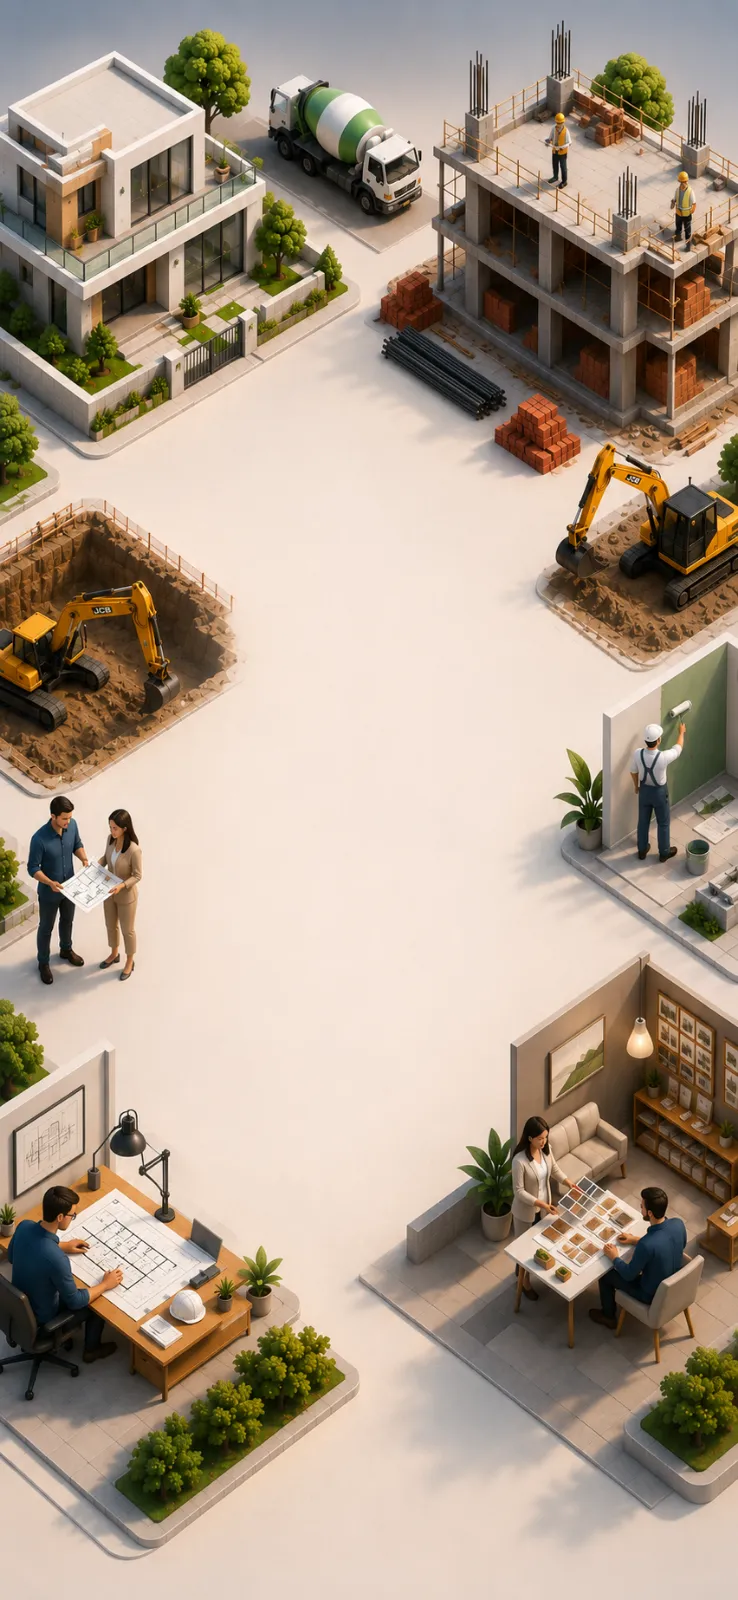
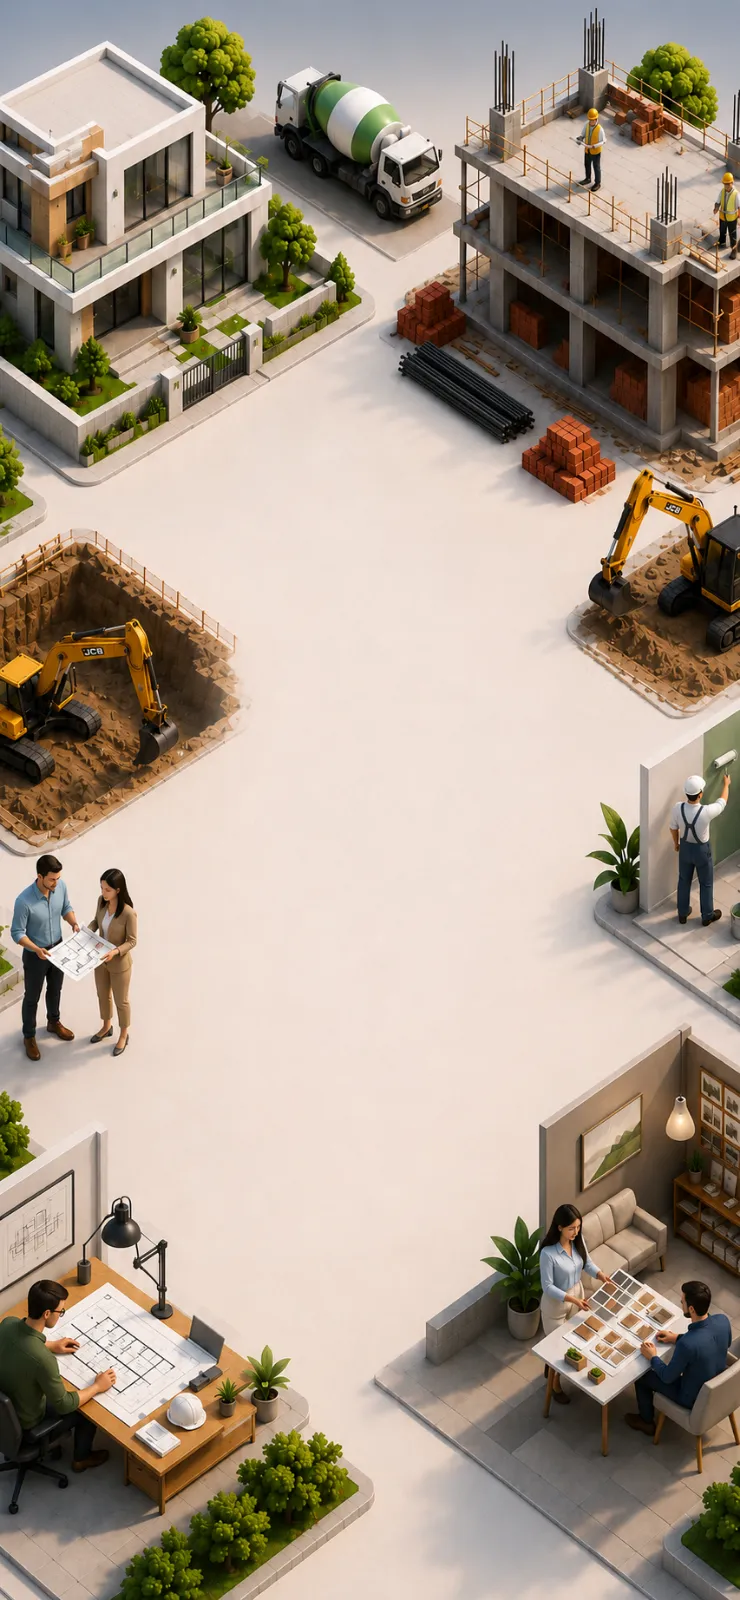
Payemnt testing

diff --git a/src/screens/ProfessionalsScreens/SubscriptionScreen.tsx b/src/screens/ProfessionalsScreens/SubscriptionScreen.tsx
@@ -19,6 +19,7 @@ import Sub1 from '../../assets/svgs/Sub1.svg';
 import Sub2 from '../../assets/svgs/Sub2.svg';
 import Sub3 from '../../assets/svgs/Sub3.svg';
 import Sub4 from '../../assets/svgs/Sub4.svg';
+import TrustedIcon from '../../assets/svgs/TrustedSvg.svg';
 
 import {
   useNavigation,
@@ -211,10 +212,7 @@ const SubscriptionScreen = () => {
         .catch(error => {
           console.log('PAYMENT FAILED', error);
 
-          Alert.alert(
-            'Payment Cancelled',
-            error.description || 'Payment was not completed.',
-          );
+          Alert.alert('Payment Cancelled', 'Payment was not completed.');
         });
     } catch (error: any) {
       console.log('STATUS:', error?.response?.status);
@@ -226,7 +224,7 @@ const SubscriptionScreen = () => {
   };
 
   const renderCard = (plan: Plan) => {
-    console.log('Plannnns desi', plan.description);
+    console.log('Plannnns desi', plan);
     return (
       <View key={plan._id} style={styles.card}>
         <View style={styles.rowBetween}>
@@ -396,6 +394,39 @@ const SubscriptionScreen = () => {
             })}
           </ScrollView>
         )}
+        {/* TRUSTED FOOTER */}
+
+        <View style={styles.trustedContainer}>
+          <View style={styles.trustedIconContainer}>
+            {/* <MaterialCommunityIcons
+              name="shield-check"
+              size={38}
+              color="#2F6FE4"
+            /> */}
+            <TrustedIcon />
+          </View>
+
+          <View style={styles.trustedContent}>
+            <Text style={styles.trustedTitle}>
+              Trusted by 10,000+ professionals
+            </Text>
+
+            <Text style={styles.trustedText}>
+              Join thousands of contractors and{'\n'}
+              service providers growing their business with Preworks.
+            </Text>
+          </View>
+        </View>
+
+        {/* SECURE PAYMENT FOOTER */}
+
+        <View style={styles.secureFooter}>
+          {/* <MaterialCommunityIcons name="lock" size={18} color="#A7A7A7" /> */}
+
+          <Text style={styles.secureText}>
+            Secure payments. Cancel anytime.
+          </Text>
+        </View>
       </ScrollView>
     </ScreenWrapper>
   );
@@ -627,5 +658,75 @@ const styles = StyleSheet.create({
     fontFamily: FONT.POPPINS_MEDIUM,
     marginBottom: 8,
     marginLeft: 4,
+  },
+  trustedContainer: {
+    flexDirection: 'row',
+    alignItems: 'center',
+
+    backgroundColor: '#FFF',
+
+    borderWidth: 1,
+    borderColor: '#EEEEEE',
+    borderRadius: 18,
+
+    marginHorizontal: 18,
+    marginTop: 28,
+    paddingHorizontal: 12,
+    paddingVertical: 18,
+  },
+
+  trustedIconContainer: {
+    width: 54,
+    height: 44,
+
+    borderRadius: 14,
+
+    justifyContent: 'center',
+    alignItems: 'center',
+
+    marginRight: 16,
+  },
+
+  trustedContent: {
+    flex: 1,
+  },
+
+  trustedTitle: {
+    fontSize: 14,
+    color: '#111827',
+    fontFamily: FONT.POPPINS_SEMIBOLD,
+    marginBottom: 5,
+  },
+
+  trustedText: {
+    fontSize: 12,
+    lineHeight: 19,
+    color: '#777',
+    fontFamily: FONT.POPPINS_REGULAR,
+  },
+
+  secureFooter: {
+    flexDirection: 'row',
+    alignItems: 'center',
+    justifyContent: 'center',
+
+    marginTop: 22,
+    marginBottom: 10,
+
+    paddingHorizontal: 10,
+  },
+
+  secureText: {
+    fontSize: 11,
+    color: '#A0A0A0',
+    fontFamily: FONT.POPPINS_REGULAR,
+    marginLeft: 6,
+  },
+
+  secureDivider: {
+    width: 1,
+    height: 14,
+    backgroundColor: '#CFCFCF',
+    marginHorizontal: 12,
   },
 });

diff --git a/src/screens/CustomerScreens/HomeScreenPages/ProffessionalListScreen.tsx b/src/screens/CustomerScreens/HomeScreenPages/ProffessionalListScreen.tsx
@@ -132,7 +132,6 @@ const ProfessionalListScreen = () => {
           )}
         />
       )} */}
-
       {/* Professionals Grid */}
       {loading ? (
         <ActivityIndicator
@@ -140,6 +139,10 @@ const ProfessionalListScreen = () => {
           color={Colors.primary}
           style={{ marginTop: HEIGHT(5), alignSelf: 'center' }}
         />
+      ) : finalList.length === 0 ? (
+        <View style={styles.noResultContainer}>
+          <Text style={styles.noResultText}>No results found</Text>
+        </View>
       ) : (
         <FlatList
           data={finalList}
@@ -184,10 +187,7 @@ const ProfessionalListScreen = () => {
                     {item.firstName} {item.lastName}
                   </Text>
 
-                  <Text style={styles.exp}>
-                    {' '}
-                    {item.userType?.toUpperCase()}
-                  </Text>
+                  <Text style={styles.exp}>{item.userType?.toUpperCase()}</Text>
 
                   <View style={{ flexDirection: 'row', gap: 4 }}>
                     <SuitCaseIcon width={16} height={16} />
@@ -279,5 +279,16 @@ const styles = StyleSheet.create({
   location: {
     fontSize: 12,
     fontFamily: FONT.POPPINS_REGULAR,
+  },
+  noResultContainer: {
+    flex: 1,
+    alignItems: 'center',
+    justifyContent: 'center',
+    paddingBottom: HEIGHT(10),
+  },
+  noResultText: {
+    fontSize: 16,
+    fontFamily: FONT.POPPINS_MEDIUM,
+    color: '#777',
   },
 });

diff --git a/src/components/Buttons/UserTypeButton.tsx b/src/components/Buttons/UserTypeButton.tsx
@@ -16,10 +16,8 @@ const UserTypeButton = ({ title, Icon, onPress }: Props) => {
       style={styles.container}
       onPress={onPress}
     >
-      <View style={styles.iconContainer}>
-        <Icon width={50} height={50} />
-      </View>
-
+      <View style={styles.iconContainer}></View>
+      <Icon width={45} height={45} />
       <Text style={styles.title}>{title}</Text>
     </TouchableOpacity>
   );
@@ -37,13 +35,13 @@ const styles = StyleSheet.create({
     flexDirection: 'row',
     alignItems: 'center',
 
-    paddingVertical: 10,
-    paddingHorizontal: 10,
+    paddingVertical: 6,
+    // paddingHorizontal: 8,
 
     marginBottom: 18,
 
-    borderWidth: 1,
-    borderColor: '#F3EEE8',
+    borderWidth: 1.2,
+    borderColor: '#ededed',
 
     shadowColor: '#000',
     shadowOffset: {
@@ -56,16 +54,16 @@ const styles = StyleSheet.create({
   },
 
   iconContainer: {
-    width: 48,
-    height: 44,
+    width: 31,
+    height: 30,
     justifyContent: 'center',
     alignItems: 'center',
-    marginRight: 8,
+    //marginRight: 16,
   },
 
   title: {
     fontSize: 16,
-    color: '#222222',
-    fontFamily: FONT.POPPINS_MEDIUM,
+    color: '#4c4c4c',
+    fontFamily: FONT.POPPINS_SEMIBOLD,
   },
 });

diff --git a/src/screens/CommonScreens/WelcomeScreen.tsx b/src/screens/CommonScreens/WelcomeScreen.tsx
@@ -87,17 +87,17 @@ const styles = StyleSheet.create({
   },
 
   title: {
-    fontSize: 30,
-    color: 'black',
-    marginBottom: 10,
-    fontFamily: FONT.POPPINS_BOLD,
+    fontSize: 22,
+    color: '#4c4c4c',
+    marginTop: -20,
+    fontFamily: FONT.POPPINS_SEMIBOLD,
   },
 
   subtitle: {
     fontSize: 14,
     color: '#787575',
     textAlign: 'center',
-    marginBottom: 20,
+    marginBottom: 10,
     fontFamily: FONT.POPPINS_SEMIBOLD,
   },
 
@@ -115,9 +115,9 @@ const styles = StyleSheet.create({
     fontWeight: '600',
   },
   logoImage: {
-    width: 230,
-    height: 180,
-    // marginBottom: 2,
+    width: 210,
+    height: 145,
+    //marginBottom: -66,
   },
   buttonContainer: {
     width: '100%',

diff --git a/src/screens/CommonScreens/SettingsTabPages/EditProfileScreen.tsx b/src/screens/CommonScreens/SettingsTabPages/EditProfileScreen.tsx
@@ -597,6 +597,8 @@ const EditProfileScreen = ({ navigation }: any) => {
                     onPress={() => showImageOptions('profile')}
                   >
                     <Camera width={35} />
+
+                    <Text style={styles.requiredStar}>*</Text>
                   </TouchableOpacity>
                 </View>
               </View>
@@ -971,5 +973,13 @@ const styles = StyleSheet.create({
     padding: 10,
     borderBottomWidth: 0.5,
     borderColor: '#ccc',
+  },
+  requiredStar: {
+    position: 'absolute',
+    top: 8,
+    right: 8,
+    color: 'red',
+    fontSize: 16,
+    fontWeight: 'bold',
   },
 });
